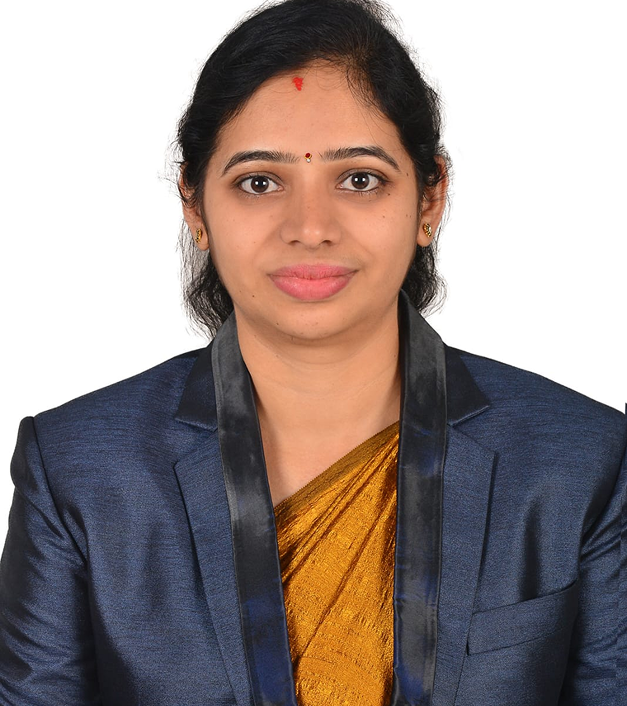
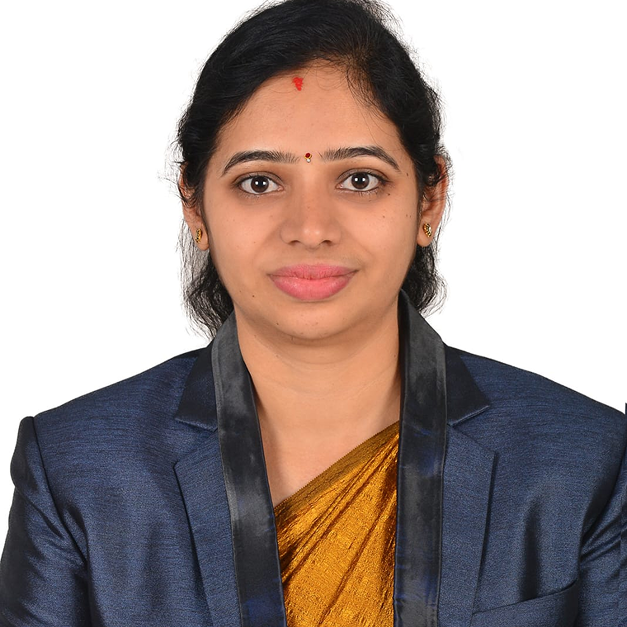
Add new images and update department descriptions; enhance layout and responsiveness across components

diff --git a/src/data/academicProgramsData.ts b/src/data/academicProgramsData.ts
@@ -4,6 +4,7 @@ import artificialIntelligence from "../assets/images/academic/artificial-intelli
 import InformationScience from "../assets/images/academic/informationScience.png";
 import computerScienceEngineering from "../assets/images/academic/computerScience.png";
 import csdDepartmentImage from "../assets/images/academic/CSDdepartment.png";
+import aidsDeptImage from "../assets/images/academic/aidsDept.png";
 
 export interface AcademicProgram {
   id: number;
@@ -21,7 +22,7 @@ export const academicPrograms: AcademicProgram[] = [
     title: "Computer Science",
     duration: "Duration - 4 Years",
     description:
-      "It Is A Long Established Fact That A Reader Will Be Distracted By The Readable Content Of A Page",
+      "The CSE department, established in 2022-23 with an intake of 60, now has an intake of 120 students for the current year, CSE is a branch of Engineering that deals with computing theories, programming languages, program design, algorithms, computer hardware and software, and integrates several fields of computer science. Computer science engineers are involved in many aspects of computing, from the design of individual microprocessors, personal computers, and supercomputers to circuit designing and writing software. CSE offers abundant opportunities for graduates to be at the forefront of technological innovation. From robotics and nanotechnology to space structures and weaponry, the systems of computer frameworks are at the center of the new-age world.",
     readMore: "Read More",
     image: computerScienceEngineering,
     route: "/ug-programs/cse",
@@ -31,7 +32,7 @@ export const academicPrograms: AcademicProgram[] = [
     title: "Information Science",
     duration: "Duration - 4 Years",
     description:
-      "It Is A Long Established Fact That A Reader Will Be Distracted By The Readable Content Of A Page",
+      "The department of ISE is established during the academic year 2022-23 with an intake of 60. ISE graduates will be able to design, development and implement the software applications for real-world problems by using latest modern IT tools and technologies to meet the industry requirements. There is not much difference between Computer science & Information Science.",
     readMore: "Read More",
     image: InformationScience,
     route: "/ug-programs/ise",
@@ -41,7 +42,7 @@ export const academicPrograms: AcademicProgram[] = [
     title: "AIML Department",
     duration: "Duration - 4 Years",
     description:
-      "It Is A Long Established Fact That A Reader Will Be Distracted By The Readable Content Of A Page",
+      "The department of Artificial intelligence and Machine learning(AI&ML) is established during the academic year 2022-23 with an intake of 60. Artificial intelligence and Machine learning(AI&ML) areas are the branches of Computer Science and rapidly growing technologies, used to create intelligent systems that can simulate human thinking capability and behavior across service and non-service sectors. In other words, AI&ML enables the Computer to mimic the human brain in terms of making decisions accurately without manual intervention. AI&ML is an exciting field of study that brings together theories, standards, methods, and innovative ideas from various domains like mathematics, cognitive science, electronics, and embedded systems. Its purpose is to create remarkable advancements by leveraging the power of these diverse disciplines, intelligent systems that mimic human behaviour.",
     readMore: "Read More",
     image: artificialIntelligence,
     route: "/ug-programs/aiml",
@@ -51,11 +52,19 @@ export const academicPrograms: AcademicProgram[] = [
     title: "CSD Department",
     duration: "Duration - 4 Years",
     description:
-      "It Is A Long Established Fact That A Reader Will Be Distracted By The Readable Content Of A Page",
+      "The department of Computer Science and Design is established during the academic year 2022-23 with an intake of 60. Computer Science and Design is in high demand across the globe in the current era. The students will have the ability to design creative solutions in areas such as animation, AI powered gaming, virtual reality and augmented reality etc. This graduation programme combines core design courses with solid programming underpinnings. This programme prepares students for a variety of careers in disciplines such as entertainment, arts, games, digital analytics, mobile application development, web/product design, cyber security, multimedia, and other interactive industries around the world. The first year of study is identical to all engineering branches, and the remaining years of study comprise core subjects and its electives.",
     readMore: "Read More",
     image: csdDepartmentImage,
     route: "/ug-programs/csd",
   },
- 
-  
+  {
+    id: 5,
+    title: "AIDS Department",
+    duration: "Duration - 4 Years",
+    description:
+      "The department of Artificial Intelligence and Data Science (AI&DS) is established during the academic year 2022-23 with an intake of 60. Artificial Intelligence is a human-like intelligence provided to machines where machines act and think as humanly & solve problems faster than humans. Speech recognition, translation tools, etc., are the building areas of AI. Artificial Intelligence is the implementation of a predictive model to forecast future events and trends, Automation of the process & uses machine learning techniques Data Science is a subset of Artificial Intelligence. Data science is a collection of data to analyze and make a decision. It uses scientific methods, processes, algorithms, and insights from many structural and unstructured data. Data Science is a detailed process that mainly involves pre-processing analysis, visualization, and prediction with a high degree of scientific processing & extensive tools will be used to process the data uses the technique of data analysis and data analytics.",
+    readMore: "Read More",
+    image: aidsDeptImage,
+    route: "/ug-programs/aids",
+  }
 ];

diff --git a/src/data/UGPrograms/aidsDepartment.ts b/src/data/UGPrograms/aidsDepartment.ts
@@ -119,11 +119,12 @@ export const aboutDepartment: AboutDepartment = {
   title: "About AI & DS",
 
   description: `The department of Artificial Intelligence and Data Science (AI&DS) is established during the academic year 2022-23 with an intake of 60.
+The course integrates the principles of Computer Science with Data Science and provides students with a strong foundation in machine learning, deep learning, statistics, visualization, predictive analytics, and intuitive design thinking. The department aims to create professionals who can build data-driven solutions, interpret complex information, and apply intelligent systems across various domains.
 
-Artificial Intelligence is a human-like intelligence provided to machines where machines act and think as humanly & solve problems faster than humans. Speech recognition, translation tools, etc., are the building areas of AI.
-Artificial Intelligence is the implementation of a predictive model to forecast future events and trends, Automation of the process & uses machine learning techniques
-Data Science is a subset of Artificial Intelligence. Data science is a collection of data to analyze and make a decision. It uses scientific methods, processes, algorithms, and insights from many structural and unstructured data.
-Data Science is a detailed process that mainly involves pre-processing analysis, visualization, and prediction with a high degree of scientific processing & extensive tools will be used to process the data uses the technique of data analysis and data analytics.`
+<strong>Artificial Intelligence</strong> is a human-like intelligence provided to machines where machines act and think as humanly & solve problems faster than humans. Speech recognition, translation tools, etc., are the building areas of AI.
+<strong>Artificial Intelligence</strong> is the implementation of a predictive model to forecast future events and trends, Automation of the process & uses machine learning techniques.
+<strong>Data Science</strong> is a subset of Artificial Intelligence. Data science is a collection of data to analyze and make a decision. It uses scientific methods, processes, algorithms, and insights from many structural and unstructured data.
+<strong>Data Science</strong> is a detailed process that mainly involves pre-processing analysis, visualization, and prediction with a high degree of scientific processing & extensive tools will be used to process the data uses the technique of data analysis and data analytics.`
 };
 
 
@@ -131,7 +132,7 @@ export const careerOpportunities: CareerOpportunities = {
   title: "Career Opportunities",
 
   description:
-    `AI&DS are amongst the hottest fields of the 21st century that will impact all segments of daily life by 2025, from transport and logistics to healthcare and customer service. Immense employment opportunities available for AI&DS engineers & have significantly increased worldwide in the past couple of years, with demand easily outstripping supply in the field of`,
+    `AI&DS are amongst the hottest fields of the 21st century that will impact all segments of daily life by 2025, from transport and logistics to healthcare and customer service. Immense employment opportunities available for AI&DS engineers & have significantly increased worldwide in the past couple of years, with demand easily outstripping supply in the field of.`,
   image: careerImage,
 
   opportunities: [

diff --git a/src/data/UGPrograms/csdDepartment.ts b/src/data/UGPrograms/csdDepartment.ts
@@ -96,8 +96,11 @@ The Department focusses on students to acquire skills in programming languages, 
 export const aboutDepartment: AboutDepartment = {
   title: "About CSD",
 
-  description: `The CSE department, established in 2022-23 with an intake of 60, now has an intake of 120 students for the current year, CSE is a branch of Engineering that deals with computing theories, programming languages, program design, algorithms, computer hardware and software, and integrates several fields of computer science. Computer science engineers are involved in many aspects of computing, from the design of individual microprocessors, personal computers, and supercomputers to circuit designing and writing software. CSE offers abundant opportunities for graduates to be at the forefront of technological innovation. From robotics and nanotechnology to space structures and weaponry, the systems of computer frameworks are at the center of the new-age world.
-`
+  description: `The department of Computer Science and Design is established during the academic year 2022-23 with an intake of 60. Computer Science and Design is in high demand across the globe in the current era. The students will have the ability to design creative solutions in areas such as animation, AI powered gaming, virtual reality and augmented reality etc. This graduation programme combines core design courses with solid programming underpinnings. This programme prepares students for a variety of careers in disciplines such as entertainment, arts, games, digital analytics, mobile application development, web/product design, cyber security, multimedia, and other interactive industries around the world. The first year of study is identical to all engineering branches, and the remaining years of study comprise core subjects and its electives.
+
+CSD is the branch of Computer Science, aims to develop graduates that are not only well versed with computing approaches, tools, and technologies but are also experienced with Design approaches and new Media technologies and uses. The program has a small set of core courses in CS and Design, and many electives which can be taken from CS as well as Design and Digital Media. It uses in every aspect of life with the importance of Interactive Design and Methods.
+
+The program will prepare students to work in the IT industry as well as the digital media industry like gaming, animation, virtual/augmented reality, etc. The program will also allow students, who want to pursue higher studies, to take up higher studies in CS/IT or Design.`
 };
 
 

diff --git a/src/data/landingData.ts b/src/data/landingData.ts
@@ -22,10 +22,15 @@ export type Testimonial = {
   quote: string;
 };
 
+export type FooterLink = {
+  label: string;
+  href: string;
+};
+
 export type FooterColumn = {
   id: number;
   title: string;
-  links: string[];
+  links: FooterLink[];
 };
 
 export const companyLogos: CompanyLogo[] = [
@@ -87,34 +92,38 @@ export const footerColumns: FooterColumn[] = [
     id: 1,
     title: 'Schools',
     links: [
-      'BGS National Public School',
-      'BGS Residential School',
-      'International Public School',
-      'BGS English School',
-      'BGS School',
-      'Gnana Vikasa Polytechnic',
-      'BGSWS',
+      { label: 'BGS National Public School', href: 'https://bgscet.ac.in/' },
+      { label: 'BGS Residential School', href: 'https://bgscet.ac.in/publications/' },
+      { label: 'International Public School', href: 'https://bgscet.ac.in/faculty/' },
+      { label: 'BGS English School', href: 'https://bgscet.ac.in/' },
+      { label: 'BGS School', href: 'https://bgscet.ac.in/labs/' },
+      { label: 'Gnana Vikasa Polytechnic', href: 'https://bgscet.ac.in/labs/' },
+      { label: 'BGSWS', href: 'https://bgscet.ac.in/' },
     ],
   },
   {
     id: 2,
     title: 'Colleges',
     links: [
-      'Adichunchanagiri University',
-      'SAC Institutions',
-      'PU Colleges',
-      'SJCIT',
-      'SJBIT',
-      'BGSIT',
-      'Medical Science',
-      'Nursing Science',
-      'Allied Health Science',
+      { label: 'Adichunchanagiri University', href: 'https://bgscet.ac.in/about/' },
+      { label: 'SAC Institutions', href: 'https://bgscet.ac.in/publications/' },
+      // { label: 'PU Colleges', href: 'https://bgscet.ac.in/' },
+      { label: 'SJCIT', href: 'https://bgscet.ac.in/faculty/' },
+      { label: 'SJBIT', href: 'https://bgscet.ac.in/' },
+      { label: 'BGSIT', href: 'https://bgscet.ac.in/labs/' },
+      { label: 'Medical Science', href: 'https://bgscet.ac.in/labs/' },
+      { label: 'Nursing Science', href: 'https://bgscet.ac.in/labs/' },
+      { label: 'Allied Health Science', href: 'https://bgscet.ac.in/labs/' },
     ],
   },
   {
     id: 3,
     title: 'PU Colleges',
-    links: ['BGS Mahalakshmipuram', 'BGS Nagaruru', 'SAC Institutions'],
+    links: [
+      { label: 'BGS Mahalakshmipuram', href: 'https://ise.sjcit.ac.in/' },
+      { label: 'BGS Nagaruru', href: 'https://ce.sjcit.ac.in/' },
+      { label: 'SAC Institutions', href: 'https://ae.sjcit.ac.in/' },
+    ],
   },
 ];
 

diff --git a/src/data/UGPrograms/chemistryDepartment.ts b/src/data/UGPrograms/chemistryDepartment.ts
@@ -18,7 +18,7 @@ const chemistryDepartment: UGDepartmentData = {
   hodMessage: {
     title: "HOD’s Message",
     image: hodImage,
-    name: "Dr. Shivakumar",
+    name: "Dr. Vinay Kumar",
     designation: ["Professor and Head of the Department"],
     description: "Dr Vinay Kumar B, HOD, Department of Chemistry having the teaching experience of 13 years. He obtained his Ph.D. degree from Kuvempu University in the year 2012. His main research area includes bioinorganic chemistry, nanomaterials and catalysis in organic transformations. He currently supervising 3 research students and 1 Ph.D. awarded under his guidance. He has published 28 research articles in reputed national and international journals. He presented several research papers in national and international conferences.",
   },
@@ -34,7 +34,7 @@ const chemistryDepartment: UGDepartmentData = {
     mission: { title: "Mission", points: ["Delivering students with an opportunity to gain a deeper understanding of sensors, memory storage devices, and display systems.", "Providing eco-friendly solutions addressing to environmental management of e-waste." ,"Imparting analytical thinking to solve societal problems related to chemical substances in multidisciplinary areas."] },
   },
   facultyMembers: [
-    { id: 1, image: hodImage, name: "Dr. Shivakumar", designation: "Professor & HOD" },
+    { id: 1, image: hodImage, name: "Dr. Vinay Kumar", designation: "Associate Professor & HOD" },
     { id: 2, image: sangeethaImage, name: "Dr. Sangeetha", designation: "Assistant Professor" },
   ],
   instructorMembers: [

diff --git a/src/data/UGPrograms/physicsDepartment.ts b/src/data/UGPrograms/physicsDepartment.ts
@@ -1,7 +1,9 @@
 import bannerImage from "../../assets/images/Physicsdepartment/phy-banner.png";
 import labImage from "../../assets/images/Physicsdepartment/phy-lab.png";
 import hodImage from "../../assets/images/Physicsdepartment/Dr-Ambika.png";
-import neetaImage from "../../assets/images/Physicsdepartment/Dr-Neeta-Shukla.png";
+// import neetaImage from "../../assets/images/Physicsdepartment/Dr-Neeta-Shukla.png";
+import vinodKumar from "../../assets/images/Physicsdepartment/Dr-Vinod.jpeg";
+
 import type { UGDepartmentData } from "../../types/ugprograms";
 
 const physicsDepartment: UGDepartmentData = {
@@ -34,7 +36,7 @@ const physicsDepartment: UGDepartmentData = {
   },
   facultyMembers: [
     { id: 1, image: hodImage, name: "Dr. Ambika A V", designation: "Assistant Professor & HOD" },
-    { id: 2, image: neetaImage, name: "Dr Neeta Shukla", designation: "Assistant Professor" },
+    { id: 2, image: vinodKumar, name: "Dr. Vinod Kumar S", designation: "Assistant Professor" },
   ],
   technicalFacultyMembers: [],
   achievementData: { title: "Achievements", achievements: [] },

diff --git a/src/data/homePageData.ts b/src/data/homePageData.ts
@@ -49,7 +49,7 @@ export const homeVisionMission = {
   title: 'Vision & Mission',
   image: visionMissionImage,
   description:
-    'BGS College of Engineering and Technology (BGSCET) is a newly established engineering institution offering five industry-driven UG programs - CSE, ISE, AI & ML, AI & DS, and CSD. The college is managed by BGSKH Education Trust (R.), a unit of Sri Adichunchanagiri Shikshana Trust (SAST) under the guidance of Sri Adichunchanagiri Mahasamsthana Mutt.',
+    'Creating Competent IT Professionals With Core Values For The Real World.\nProviding Students with a Sound Knowledge in IT Fundamentals.\nExposing Students to Emerging Frontiers in various domains of IT enabling Continuous Learning.\nPromoting Excellence in Teaching, Training, Research and Consultancy.\nDeveloping Entrepreneurial acumen to venture into Innovative areas of IT.\nImparting value based Professional Education with a sense of Social Responsibility.',
 };
 
 export const whatsappLink = 'https://wa.me/919964897207';

diff --git a/src/data/UGPrograms/cseDepartment.ts b/src/data/UGPrograms/cseDepartment.ts
@@ -203,14 +203,14 @@ export const facultyMembers: FacultyMember[] = [
   {
     id: 4,
     image: mrsVedha,
-    name: "Mrs.Vedha.C",
+    name: "Prof. Vedha.C",
     designation: "Assistant Professor",
   },
 
   {
     id: 5,
     image: mrChethanHV,
-    name: "Mr.Chethan H V",
+    name: "Prof. Chethan H V",
     designation: "Assistant Professor",
   },
   {
@@ -223,13 +223,13 @@ export const facultyMembers: FacultyMember[] = [
   {
     id: 7,
     image: mrSatishG,
-    name: "Mr. SATHISHA G",
-    designation: "Assistant Professor",
+    name: "Dr. SATHISHA G",
+    designation: "Associate Professor",
   },
   {
     id: 8,
     image: mrsAshaSN,
-    name: "Mrs. Asha S N",
+    name: "Prof. Asha S N",
     designation: "Assistant Professor",
   },
 

diff --git a/src/components/footer/Footer.tsx b/src/components/footer/Footer.tsx
@@ -38,9 +38,9 @@ function Footer() {
               </h2>
               <ul className="flex flex-direction-column footer__list">
                 {column.links.map((link) => (
-                  <li className="footer__item" key={link}>
-                    <a className="inline-flex-center footer__link" href="/">
-                      {link}
+                  <li className="footer__item" key={link.label}>
+                    <a className="inline-flex-center footer__link" href={link.href} target="_blank" rel="noopener noreferrer">
+                      {link.label}
                     </a>
                   </li>
                 ))}

diff --git a/src/data/contactEnquiryData.ts b/src/data/contactEnquiryData.ts
@@ -9,15 +9,16 @@ export const contactEnquiryData: ContactEnquiryData = {
   contacts: [
     {
       id: 1,
-      name: "Mr. Hanumesh G. K",
+      name: "Mr. Sagar NS",
       designation: "Office Superintendent,",
-      organization: "BGSCET ",
-      phone: "+91 9844846820",
+      organization: "BGSCET",
+      phone: "+91 9141133697",
+      email: "registrar@bgscet.ac.in",
     },
     {
       id: 2,
-      name: "Dr. Ravikumar GK",
-      designation: "Principal, ",
+      name: "Dr Kiran P",
+      designation: "Principal,",
       organization: "BGSCET",
       phone: "+91 9964897207",
       email: "principal@bgscet.ac.in",

diff --git a/src/components/homecontent/HomeVisionMission/HomeVisionMission.css b/src/components/homecontent/HomeVisionMission/HomeVisionMission.css
@@ -20,6 +20,7 @@
   font-size: var(--mobile-font-size);
   line-height: var(--mobile-line-height);
   text-align: justify;
+  white-space: pre-line;
   order: 3;
 }
 
@@ -68,8 +69,9 @@
   .home-vision-mission__content p {
     font-size: var(--font-size);
     line-height: var(--line-height);
-    order: initial;
-  }
+      white-space: pre-line;
+      order: initial;
+    }
 
   .home-vision-mission__image {
     width: 480px;
@@ -118,6 +120,7 @@
     order: 3;
     font-size: var(--mobile-font-size);
     line-height: var(--mobile-line-height);
+    white-space: pre-line;
   }
 
   .home-vision-mission__image-container {

diff --git a/src/components/UGPrograms/AboutDepartment/CareerOpportunities/CareerOpportunities.tsx b/src/components/UGPrograms/AboutDepartment/CareerOpportunities/CareerOpportunities.tsx
@@ -21,9 +21,10 @@ const CareerOpportunities = ({
 
       <div className="career-opportunities__content">
 
-        <p className="career-opportunities__description">
-          {data.description}
-        </p>
+        <p
+          className="career-opportunities__description"
+          dangerouslySetInnerHTML={{ __html: data.description }}
+        />
 
 
         <div className="flex flex-align-start flex-justify-between career-opportunities__body">
